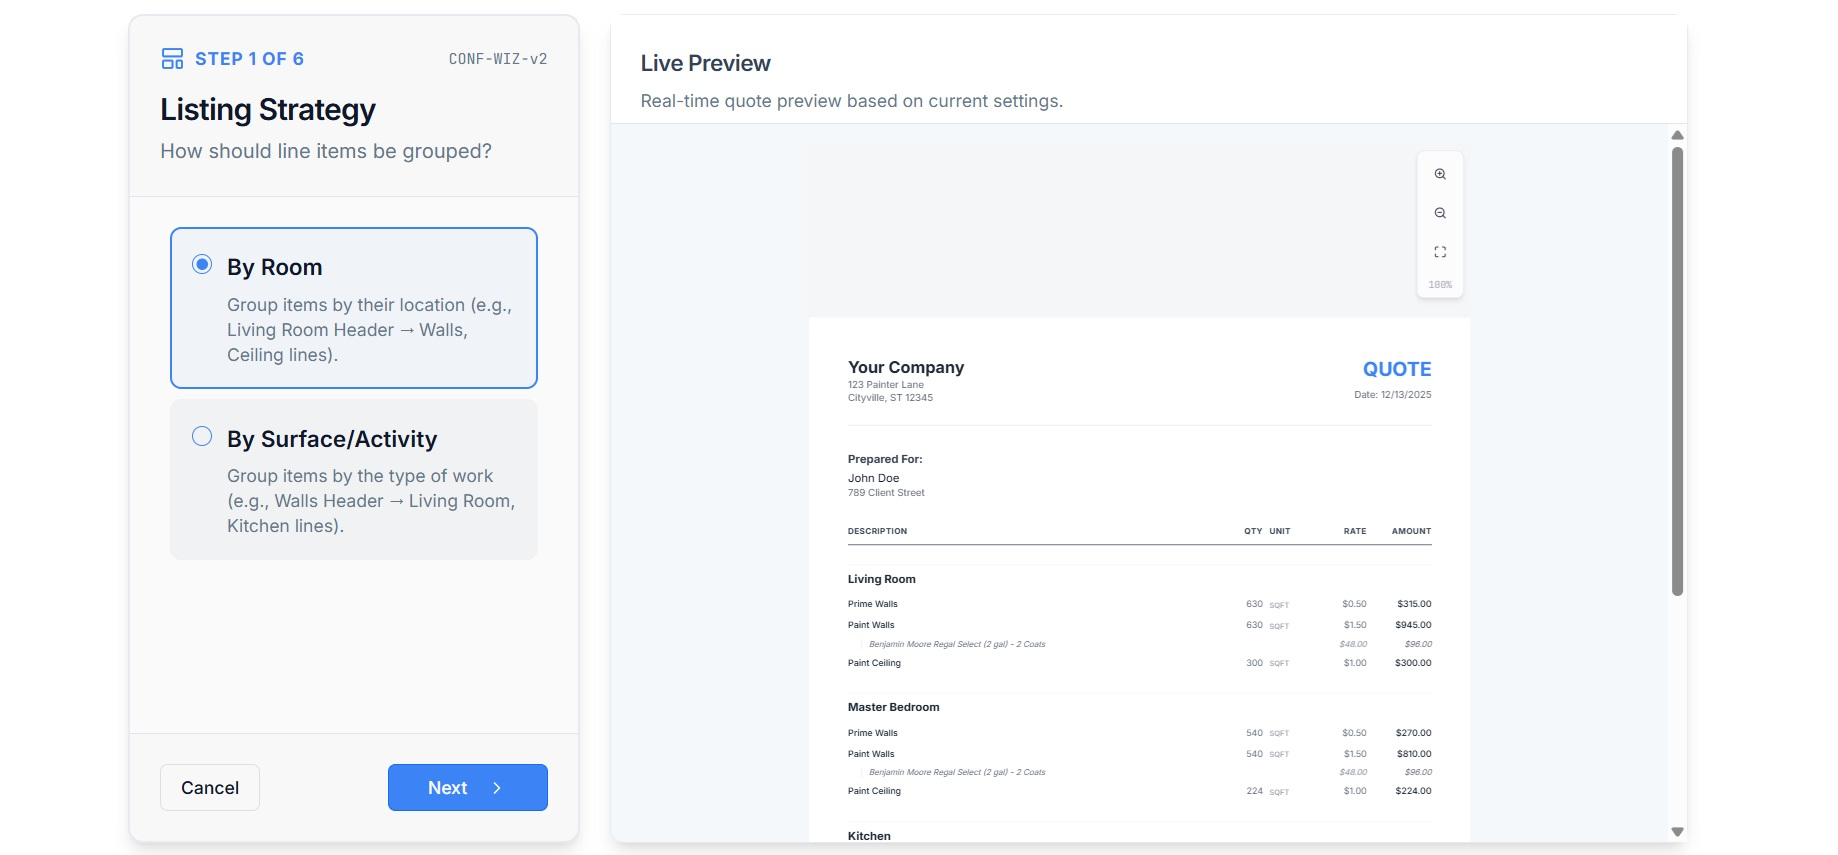
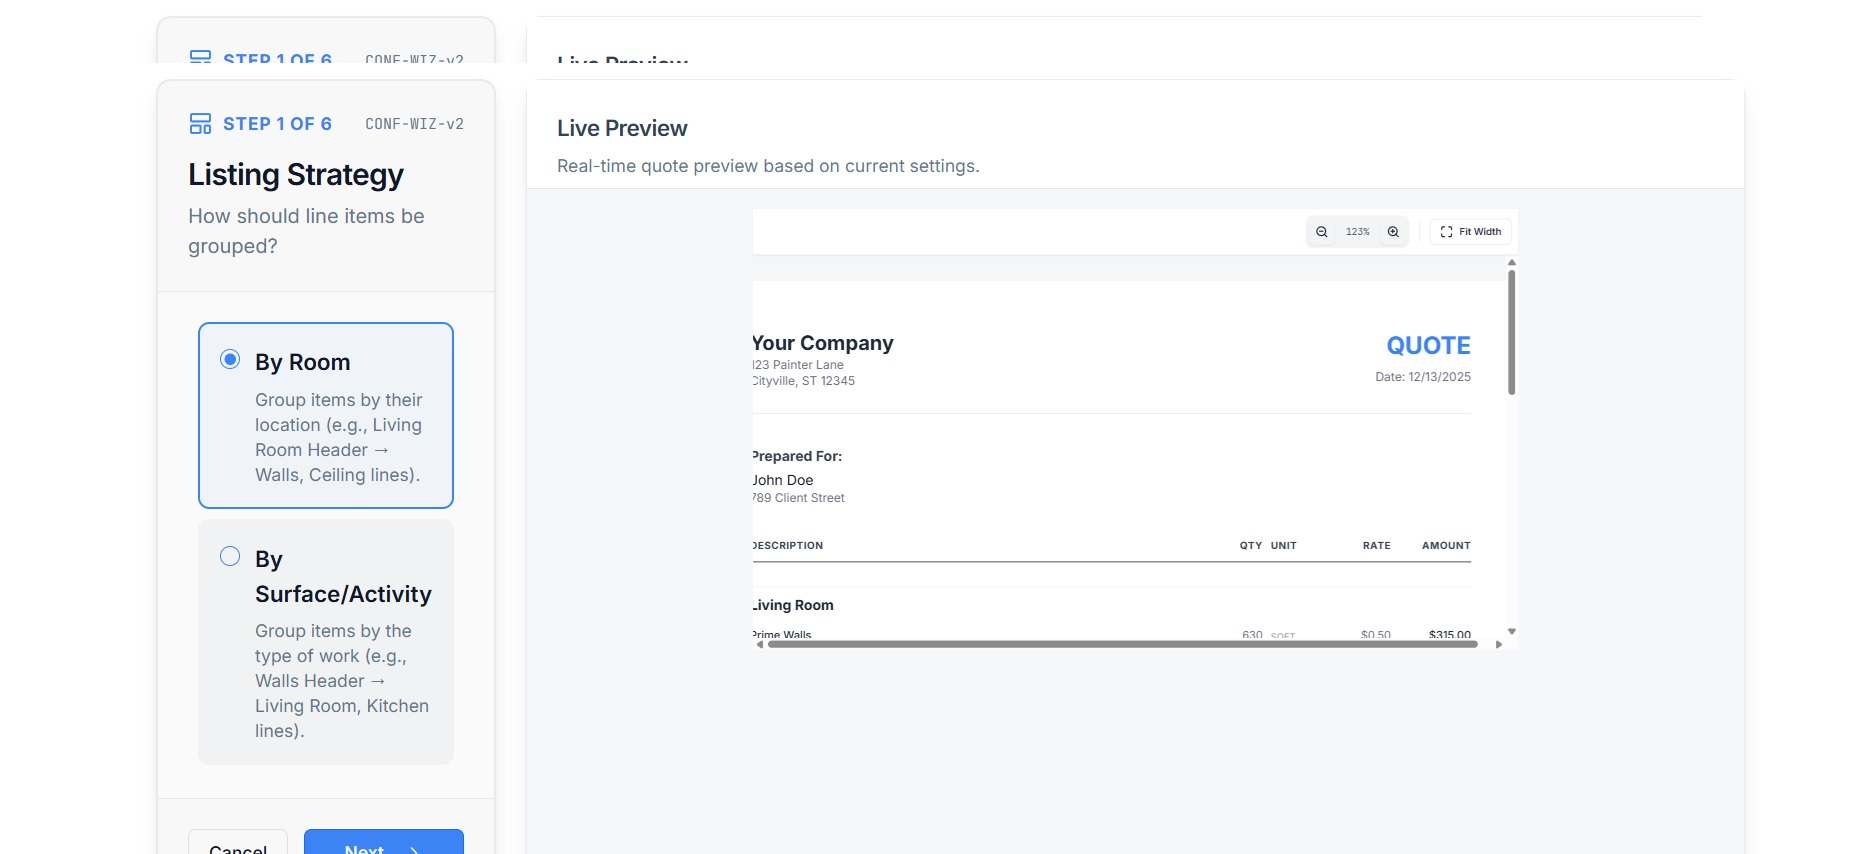
A bit of an improvement on wizard preview.

diff --git a/client/src/components/QuoteConfiguration/QuotePreview.tsx b/client/src/components/QuoteConfiguration/QuotePreview.tsx
@@ -70,7 +70,7 @@ export function QuotePreview({ config, orgBranding }: QuotePreviewProps) {
             const { clientWidth } = containerRef.current;
             // Paper width is approx 816px (215.9mm * 3.78)
             const paperWidth = 816;
-            const padding = 2; // Almost zero padding to fit "barely inside"
+            const padding = 64; // Standard comfortable padding
             const targetScale = (clientWidth - padding) / paperWidth;
             if (targetScale > 0) {
                 setScale(targetScale);
@@ -108,33 +108,39 @@ export function QuotePreview({ config, orgBranding }: QuotePreviewProps) {
     }, [lineItems, config.showTaxLine]);
 
     return (
-        <div ref={containerRef} className="relative bg-gray-100/50 min-h-full">
-            {/* Zoom Controls - Sticky to stay in view */}
-            <div className="sticky top-2 z-50 flex justify-end px-2 pointer-events-none">
-                <div className="flex flex-col gap-2 bg-white/90 p-2 rounded-lg shadow-md border backdrop-blur-sm transition-opacity hover:opacity-100 opacity-80 pointer-events-auto">
-                    <Button variant="ghost" size="icon" onClick={handleZoomIn} className="h-10 w-10 hover:bg-gray-100" title="Zoom In">
-                        <ZoomIn className="h-5 w-5" />
+        <div className="flex flex-col h-full bg-gray-100/50">
+            {/* Toolbar */}
+            <div className="flex items-center justify-end gap-2 p-2 bg-white border-b shadow-sm z-10">
+                <div className="flex items-center gap-1 bg-gray-100 rounded-lg p-1">
+                    <Button variant="ghost" size="icon" onClick={handleZoomOut} className="h-8 w-8 hover:bg-white shadow-sm" title="Zoom Out">
+                        <ZoomOut className="h-4 w-4" />
                     </Button>
-                    <Button variant="ghost" size="icon" onClick={handleZoomOut} className="h-10 w-10 hover:bg-gray-100" title="Zoom Out">
-                        <ZoomOut className="h-5 w-5" />
-                    </Button>
-                    <Button variant="ghost" size="icon" onClick={handleReset} className="h-10 w-10 hover:bg-gray-100" title="Fit Width">
-                        <Maximize className="h-5 w-5" />
-                    </Button>
-                    <div className="text-xs text-center font-mono text-gray-400 mt-1 select-none">
+                    <div className="w-12 text-center text-xs font-mono text-gray-600 select-none">
                         {Math.round(scale * 100)}%
                     </div>
+                    <Button variant="ghost" size="icon" onClick={handleZoomIn} className="h-8 w-8 hover:bg-white shadow-sm" title="Zoom In">
+                        <ZoomIn className="h-4 w-4" />
+                    </Button>
                 </div>
+                <div className="h-6 w-px bg-gray-200 mx-1" />
+                <Button variant="outline" size="sm" onClick={handleReset} className="h-8 text-xs gap-2" title="Fit Width">
+                    <Maximize className="h-3 w-3" />
+                    Fit Width
+                </Button>
             </div>
 
-            {/* Paper Container Wrapper for Centering */}
-            <div className="flex justify-center w-full py-8">
-                <div className="bg-white shadow-lg relative overflow-hidden transition-all duration-300 flex flex-col box-border font-sans"
+            {/* Scrollable Viewport */}
+            <div ref={containerRef} className="flex-1 overflow-auto p-8 flex justify-center items-start">
+                {/* Paper */}
+                <div className="bg-white shadow-lg transition-all duration-200 flex flex-col box-border font-sans origin-top bg-white"
                     style={{
                         width: '215.9mm',
                         minHeight: '279.4mm',
                         padding: '12.7mm',
-                        zoom: scale
+                        flexShrink: 0, // Prevent shrinking
+                        transform: `scale(${scale})`, // Use transform for better browser support/rendering
+                        marginBottom: `${(scale - 1) * 300}px`, // Simple compensation for vertical growth
+                        marginRight: `${(scale - 1) * 200}px`  // Simple compensation for horizontal growth
                     }}>
 
                     {/* Header */}

diff --git a/client/src/components/QuoteConfiguration/QuoteConfigWizard.tsx b/client/src/components/QuoteConfiguration/QuoteConfigWizard.tsx
@@ -386,10 +386,8 @@ export function QuoteConfigWizard({ initialConfig, onComplete, onCancel }: Quote
                     <CardTitle className="text-lg text-slate-700">Live Preview</CardTitle>
                     <CardDescription>Real-time quote preview based on current settings.</CardDescription>
                 </CardHeader>
-                <CardContent className="flex-1 overflow-y-auto p-4 flex justify-center bg-slate-100/50">
-                    <div className="scale-[0.65] origin-top transform-gpu">
-                        <QuotePreview config={config} />
-                    </div>
+                <CardContent className="flex-1 p-0 overflow-hidden">
+                    <QuotePreview config={config} />
                 </CardContent>
             </Card>
         </div>
